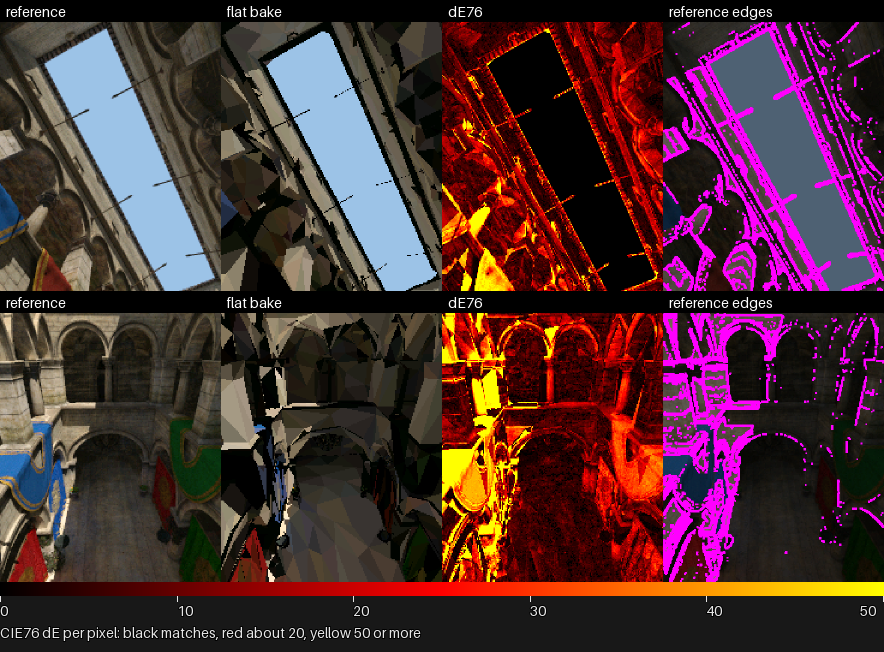
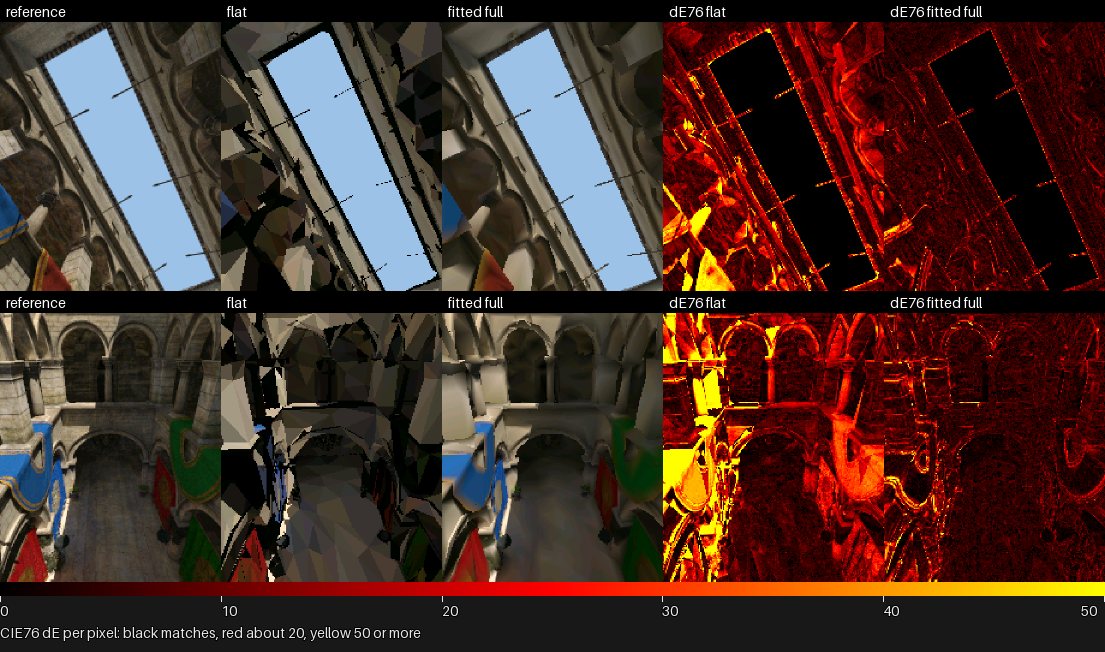
docs: regenerate the fidelity sheet with flat and fitted full (autana-wywjt)

diff --git a/docs/render/Bake-Quality.md b/docs/render/Bake-Quality.md
@@ -73,11 +73,12 @@ triangles and one colour per face both cost most at edges; fitting brings both b
 
 </details>
 
-The flat bake's error, left to right: the reference, the bake, the ΔE heatmap
-and the reference's edge pixels (magenta). The error sits at lit arch edges, shadow
-boundaries and the foreground drapery.
+What fitting buys, left to right: the reference, the flat bake, fitted full,
+then each bake's ΔE heatmap on one colour scale. Flat's error sits at lit arch
+edges, shadow boundaries and the foreground drapery; fitted full keeps a thin
+trace at edges.
 
-![Reference, flat bake, error heatmap and edge pixels](../images/render/bake-fidelity-sheet.png)
+![Reference, flat bake, fitted full, and each bake's error heatmap on one scale](../images/render/bake-fidelity-sheet.png)
 
 Flat against smooth at the same poses, the colour gradient across each face
 alone:
